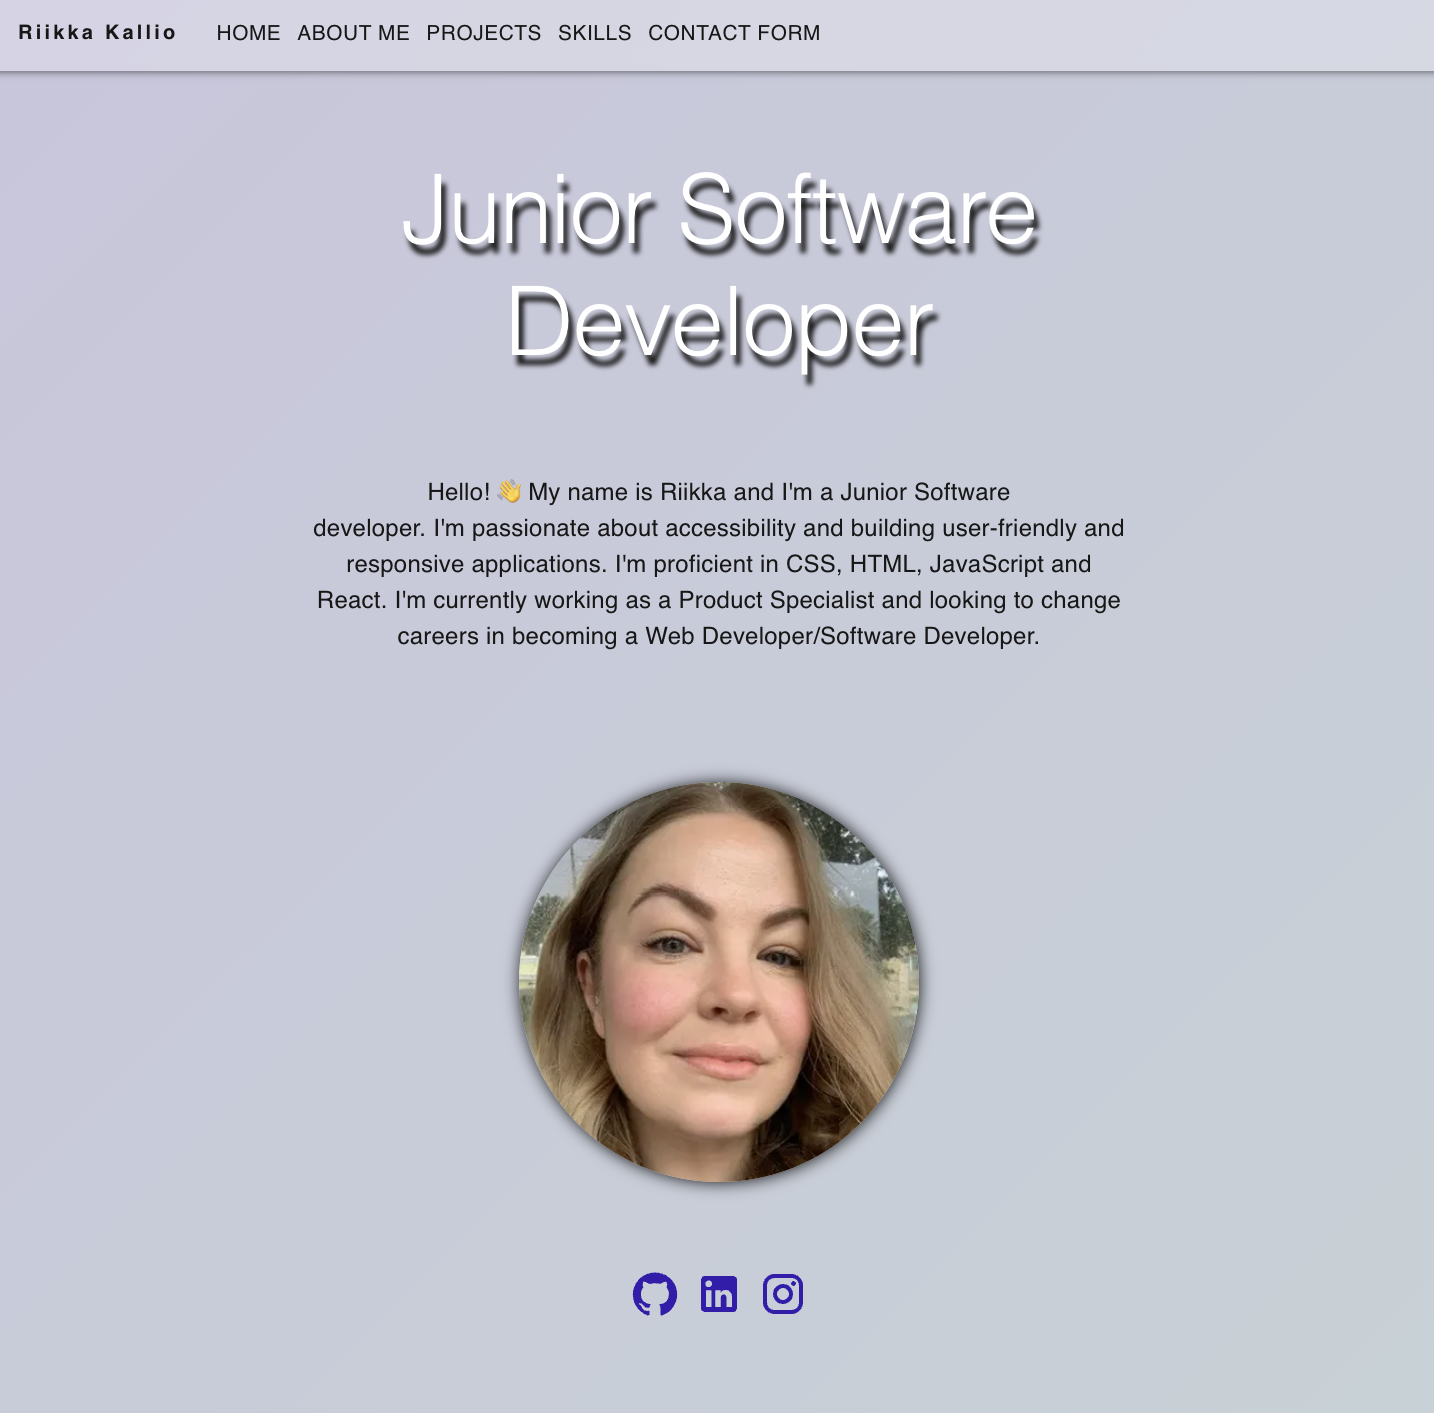
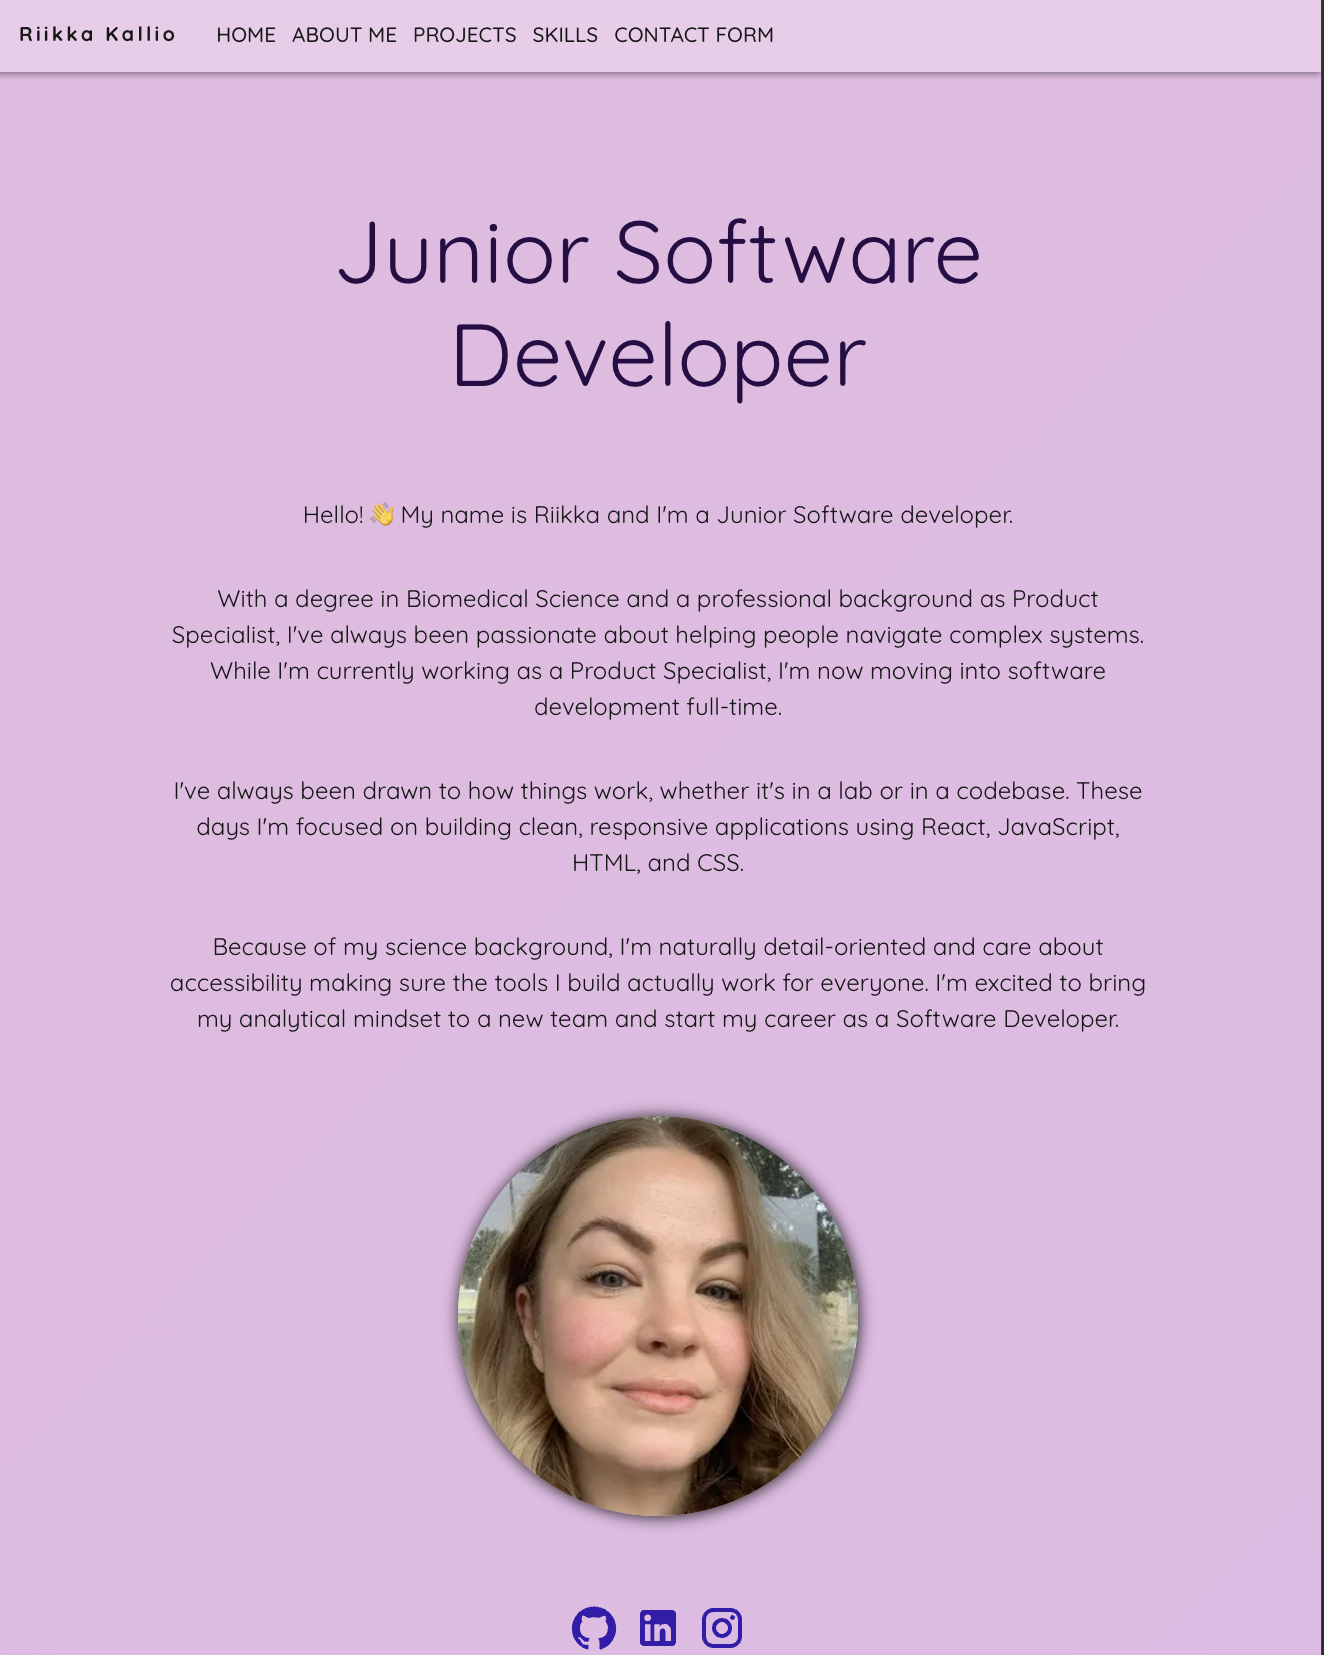
skililavatar loop bug fixing, refining about and project card descritpion

diff --git a/portfolio/components/Projects.jsx b/portfolio/components/Projects.jsx
@@ -8,8 +8,32 @@ import ProjectCard from "./common/ProjectCard/ProjectCard";
 function Projects() {
     const projects = [
         {
+            title: "Portfolio Website",
+            description: "A responsive portfolio site built with Next.js and React. It features a custom contact form powered by Next.js API routes and Maileroo for seamless communication. Focused on clean code, accessibility, and modern web standards.",
+            image: "/images/portfolio.png",
+            alt: "portfolio website image",
+            githubLink: "https://github.com/riikka-kallio/portfolio",
+            liveLink: "https://riikka.io/",
+        },
+        {
+            title: "Weather and Local News API",
+            description: "A real-time news and weather dashboard built with JavaScript and Web APIs. This project focuses on dynamic data fetching, error handling, and presenting live information.",
+            image: "/images/weatherapi.jpeg",
+            alt: "weather and news app image",
+            githubLink: "https://github.com/riikka-kallio/weather-api-app",
+            liveLink: "https://vocal-cupcake-d2f9e9.netlify.app/",
+        },
+        {
+            title: "Snake Game",
+            description: "A team-built Snake game using JavaScript, HTML, and CSS. I handled the design and the final code integration, ensuring the game was functional, responsive, and user-friendly.",
+            image: "/images/snakegame.jpeg",
+            alt: "snake game image",
+            githubLink: "https://github.com/riikka-kallio/snake-game-v1",
+            liveLink: "https://66eb17e57e08fb739564971f--endearing-marigold-8879a0.netlify.app/",
+        },
+        {
             title: "Creative Challenge",
-            description: "In this challenge I built Solar System by using HTML and CSS",
+            description: "A creative challenge where I built an interactive solar system using SVG, HTML, and CSS. I focused on using CSS animations to create smooth, realistic planetary orbits while keeping the code clean.",
             image: "/images/solarsystem.jpeg",
             alt: "solarsystem image",
             githubLink: "https://github.com/riikka-kallio/svg-project-solar-system",
@@ -17,43 +41,19 @@ function Projects() {
         },
         {
             title: "Four Card Feature",
-            description: "In this project I built a four card feature from Figma design by using HTML and CSS",
+            description: "I built this to practice taking a professional Figma design and turning it into a real website. Using HTML and CSS, I made sure every detail matched the original design while keeping the layout responsive and easy to navigate.",
             image: "/images/fourcardfeature.jpeg",
             alt: "four cards image",
             githubLink: "https://github.com/riikka-kallio/four-card-image-riikka",
             liveLink: "https://fastidious-pie-e53f68.netlify.app/",
         },
         {
-            title: "Snake Game",
-            description: "Snake Game I built in collaboration using JavaScript, HTML and CSS.",
-            image: "/images/snakegame.jpeg",
-            alt: "snake game image",
-            githubLink: "https://github.com/riikka-kallio/snake-game-v1",
-            liveLink: "https://66eb17e57e08fb739564971f--endearing-marigold-8879a0.netlify.app/",
-        },
-        {
-            title: "Weather and Local News API",
-            description: "In this project I built a weather and local news app using two APIs.",
-            image: "/images/weatherapi.jpeg",
-            alt: "weather and news app image",
-            githubLink: "https://github.com/riikka-kallio/weather-api-app",
-            liveLink: "https://vocal-cupcake-d2f9e9.netlify.app/",
-        },
-        {
             title: "Christmas Game (Hackathon Challenge)",
-            description: "This was a Hackathon challenge where we built a Christmas Game using React.",
+            description: "A festive Christmas game built during a Hackathon challenge. This was a team project where we used React and collaborated through GitHub. I worked closely with my teammates to build a fun, interactive experience, focusing on component-based logic and managing a shared codebase under a tight deadline.",
             image: "/images/christmasgame.jpeg",
             alt: "christmas game image",
             githubLink: "https://github.com/riikka-kallio/christmas-game-hackathon-2024",
             liveLink: "https://christmas-game-hackathon-2024.netlify.app/",
-        },
-        {
-            title: "Portfolio Website",
-            description: "This is my personal portfolio website made with React, Next.js and Node.js",
-            image: "/images/portfolio.png",
-            alt: "portfolio website image",
-            githubLink: "https://github.com/riikka-kallio/portfolio",
-            liveLink: "https://riikka.io/",
         },
     ];
 

diff --git a/portfolio/styles/globals.css b/portfolio/styles/globals.css
@@ -44,6 +44,7 @@
 
 body {
     font-family: var(--font-family), Arial, sans-serif;
+    font-size: var(--body-font-size);
     background-image: linear-gradient(135deg,
             var(--light-blue),
             var(--light-pink),
@@ -79,7 +80,6 @@ body {
 
 h1 {
     color: hsl(269, 69%, 16%);
-    /* text-shadow: 0.05em 0.1em 0.05em var(--very-dark-gray); */
     font-size: var(--h1-font-size) !important;
     font-family: var(--heading-font-family) !important;
     font-weight: 400 !important;
@@ -90,7 +90,6 @@ h1 {
 
 h2 {
     color: hsl(269, 69%, 16%);
-    /* text-shadow: 0.02em 0.01em 0.05em hsl(0 0% 9%); */
     text-align: center;
     margin: 0.5em 0 1em 0 !important;
     font-family: var(--heading-font-family) !important;
@@ -179,11 +178,14 @@ h2 {
     font-size: 2em;
 }
 
+.about-box {
+    margin-bottom: 5em;
+}
+
 .about-description {
     color: var(--very-dark-gray);
     font-size: 1.5em;
     margin-top: 2em;
-    padding: 2em 0 2em 0;
     text-align: center;
 }
 
@@ -211,7 +213,7 @@ h2 {
 
 .project-card {
     width: 350px;
-    height: 650px;
+    height: auto;
     display: flex;
     flex-direction: column;
     justify-content: space-between;
@@ -345,9 +347,28 @@ h2 {
 }
 
 @media (min-width: 300px) and (max-width: 640px) {
+    body {
+        font-size: 0.8em !important;
+    }
+
     h1 {
-        margin: 1em -1em 1em -1em !important;
+        margin: 1em -1em 0 -1em !important;
+        font-size: 5em !important;
+    }
+
+    h2 {
         font-size: 4em !important;
+    }
+
+    .about-box {
+        margin: 3em;
+    }
+
+    .about-description {
+        color: var(--very-dark-gray);
+        font-size: 1.5em;
+        margin-top: 2em;
+        text-align: center;
     }
 
     .profile-container {
@@ -369,10 +390,7 @@ h2 {
     .project-card {
         width: 90%;
         height: auto;
-    }
-
-    .project-grid {
-        gap: 15px;
+        margin: 0 auto;
     }
 
     .icon-wrapper {
@@ -380,9 +398,10 @@ h2 {
         justify-content: center;
     }
 
-    .about-description {
-        margin: 1em -1em 1em -1em !important;
-        font-size: 1em;
+    .project-grid {
+        display: flex;
+        flex-direction: column;
+        align-items: center;
     }
 
     .general-container {

diff --git a/portfolio/components/About.jsx b/portfolio/components/About.jsx
@@ -13,13 +13,29 @@ export default function About() {
   return (
 
     <Container id="About Me" className="profile-container">
-      <Typography component="h1" variant="h1" gutterBottom>
-        Junior Software Developer
-      </Typography>
-
-      <Typography className="about-description">
-        Hello! &#128075; My name is Riikka and&nbsp;I&apos;m&nbsp;a Junior Software developer.&nbsp;I&apos;m&nbsp;passionate about accessibility and building user-friendly and responsive applications.&nbsp;I&apos;m&nbsp;proficient in CSS, HTML, JavaScript and React.&nbsp;I&apos;m&nbsp;currently working as a Product Specialist and looking to change careers in becoming a Web Developer/Software Developer.
-      </Typography>
+        <Typography component="h1" variant="h1" gutterBottom>
+          Junior Software Developer
+        </Typography>
+      <Box className="about-box">
+        <Typography className="about-description">
+          Hello! 👋 My name is Riikka and I'm a Junior Software developer.
+        </Typography>
+  
+        <Typography className="about-description">
+          With a degree in Biomedical Science and a professional background as Product Specialist, I've always been passionate about helping people navigate complex systems.
+          While I'm currently working as a Product Specialist, I'm now moving into software development full-time.
+        </Typography>
+  
+        <Typography className="about-description">
+          I've always been drawn to how things work, whether it's in a lab or in a codebase.
+          These days I'm focused on building clean, responsive applications using React, JavaScript, HTML, and CSS.
+        </Typography>
+  
+        <Typography className="about-description">
+          Because of my science background, I'm naturally detail-oriented and care about accessibility making sure the tools I build actually work for everyone.
+          I'm excited to bring my analytical mindset to a new team and start my career as a Software Developer.
+        </Typography>
+      </Box>
 
       <Box className="profile-image-wrapper">
         <Image

diff --git a/portfolio/components/common/SkillAvatar/SkillAvatar.jsx b/portfolio/components/common/SkillAvatar/SkillAvatar.jsx
@@ -7,25 +7,30 @@ import { useMediaQuery } from '@mui/material';
 
 function SkillAvatar({ title, alt, src }) {
     const [open, setOpen] = useState(false);
+    const [isMobileState, setIsMobileState] = useState(false);
     const isMobile = useMediaQuery('(max-width: 640px)');
 
+    useEffect(() => {
+        setIsMobileState(isMobile);
+    }, [isMobile]);
+
     return (
-        <ClickAwayListener onClickAway={() => !isMobile && setOpen(false)}>
+        <ClickAwayListener onClickAway={() => !isMobileState && setOpen(false)}>
             <Tooltip
                 title={title}
                 arrow
-                open={isMobile || open}
-                disableHoverListener={isMobile}
-                disableFocusListener={isMobile}
-                disableTouchListener={isMobile}
+                open={isMobileState || open}
+                disableHoverListener={isMobileState}
+                disableFocusListener={isMobileState}
+                disableTouchListener={isMobileState}
             >
                 <Avatar
                     alt={alt}
                     src={src}
                     sx={{ cursor: "pointer" }}
-                    onMouseEnter={() => !isMobile && setOpen(true)}
-                    onMouseLeave={() => !isMobile && setOpen(false)}
-                    onClick={() => !isMobile && setOpen((prev) => !prev)}
+                    onMouseEnter={() => !isMobileState && setOpen(true)}
+                    onMouseLeave={() => !isMobileState && setOpen(false)}
+                    onClick={() => !isMobileState && setOpen((prev) => !prev)}
                     className="avatar-icon" />
             </Tooltip>
         </ClickAwayListener>
